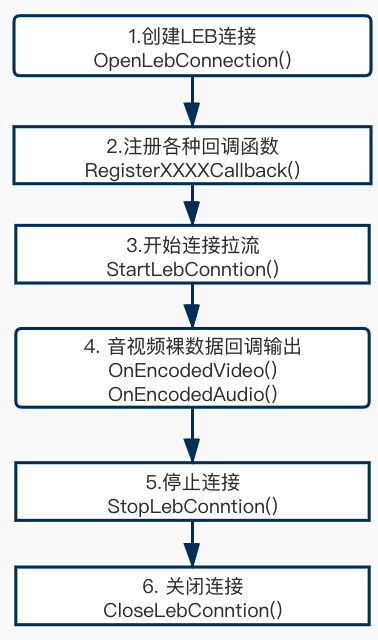
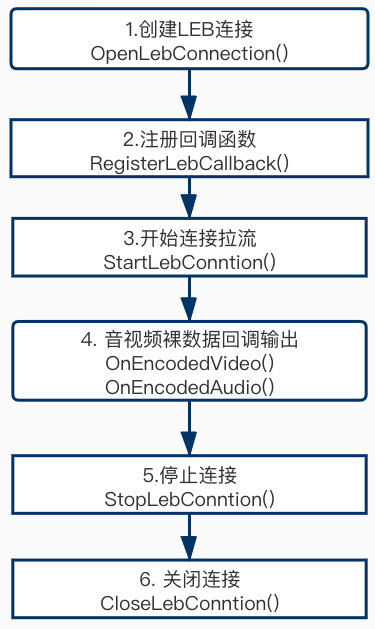
update readme

Changed region(s): [[0.0, 0.0, 0.9973, 0.9968]]

diff --git a/README.md b/README.md
@@ -1,6 +1,6 @@
 # 快直播传输层SDK - libLebConnectionSDK
 
-  
+
 ## 1. 主要功能
   - 音视频拉流，兼具优异的低延迟性能和抗弱网能力
   - 视频支持H264和H265，支持B帧，视频输出格式为AnnexB
@@ -15,64 +15,45 @@
 ### 3.1 基础接口说明
 - 创建快直播连接
 ```c
-WEBRTC_EXPORT_API LebConnectionHandle* OpenLebConnection(void* context, LebLogLevel loglevel);
+LEB_EXPORT_API LebConnectionHandle* OpenLebConnection(void* context, LebLogLevel loglevel);
 ```
-- 开始连接，内部完成信令后，直接建联拉流
+- 注册回调函数
 ```c
-WEBRTC_EXPORT_API void StartLebConnection(LebConnectionHandle* handle, LebConfig config);
+LEB_EXPORT_API void RegisterLebCallback(LebConnectionHandle* handle, const LebCallback* callback);
 ```
-- 开始信令，回调onOfferCreated输出offer sdp，通过http交互获取answer sdp
+- 开始连接拉流
 ```c
-WEBRTC_EXPORT_API void CreateOffer(LebConnectionHandle* handle, LebConfig config);
-```
-- 设置获取的answer sdp，开始建联拉流
-```c
-WEBRTC_EXPORT_API void SetRemoteSDP(LebConnectionHandle* handle, LebSdpInfo info);
+LEB_EXPORT_API void StartLebConnection(LebConnectionHandle* handle, LebConfig config);
 ```
 - 停止连接
 ```c
-WEBRTC_EXPORT_API void StopLebConnection(LebConnectionHandle* handle);
+LEB_EXPORT_API void StopLebConnection(LebConnectionHandle* handle);
 ```
 - 关闭连接
 ```c
-WEBRTC_EXPORT_API void CloseLebConnection(LebConnectionHandle* handle);
+LEB_EXPORT_API void CloseLebConnection(LebConnectionHandle* handle);
 ```
-- 播放过程中查询统计数据，onStatsInfo异步回调输出
-```c
-WEBRTC_EXPORT_API void GetStats(LebConnectionHandle* handle);
-```
+
 ### 3.2 回调接口说明
-- 注册日志回调函数
 ```c
-WEBRTC_EXPORT_API void RegisterLogInfoCallback(LebConnectionHandle* handle, OnLogInfo callback);
-```
-- 注册sdp回调函数，获取offer sdp
-```c
-WEBRTC_EXPORT_API void RegisterSdpInfoCallback(LebConnectionHandle* handle, OnSdpInfo callback);
-```
-- 注册视频信息回调函数，获取视频信息
-```c
-WEBRTC_EXPORT_API void RegisterVideoInfoCallback(LebConnectionHandle* handle, OnVideoInfo callback);
-```
-- 注册音频信息回调函数，获取音频信息
-```c
-WEBRTC_EXPORT_API void RegisterAudioInfoCallback(LebConnectionHandle* handle, OnAudioInfo callback);
-```
-- 注册视频数据回调函数，获取视频帧裸数据
-```c
-WEBRTC_EXPORT_API void RegisterVideoDataCallback(LebConnectionHandle* handle, OnEncodedVideo callback);
-```
-- 注册音频数据回调函数，获取音频帧裸数据
-```c
-WEBRTC_EXPORT_API void RegisterAudioDataCallback(LebConnectionHandle* handle, OnEncodedAudio callback);
-```
-- 注册MetaData回调函数，获取MetaData数据
-```c
-WEBRTC_EXPORT_API void RegisterMetaDataCallback(LebConnectionHandle* handle, OnMetaData callback);
-```
-- 注册统计回调函数，获取统计数据
-```c
-WEBRTC_EXPORT_API void RegisterStatsInfoCallback(LebConnectionHandle* handle, OnStatsInfo callback);
+typedef struct LebCallback {
+  // 日志回调
+  OnLogInfo onLogInfo;
+  // 视频信息回调
+  OnVideoInfo onVideoInfo;
+  // 音频信息回调
+  OnAudioInfo onAudioInfo;
+  // 视频数据回调
+  OnEncodedVideo onEncodedVideo;
+  // 音频数据回调
+  OnEncodedAudio onEncodedAudio;
+  // MetaData回调
+  OnMetaData onMetaData;
+  // 统计信息回调
+  OnStatsInfo onStatsInfo;
+  // 错误回调
+  OnError onError;
+} LebCallback;
 ```
 Notes：详细数据结构定义请见头文件**leb_connection_api.h**
 
